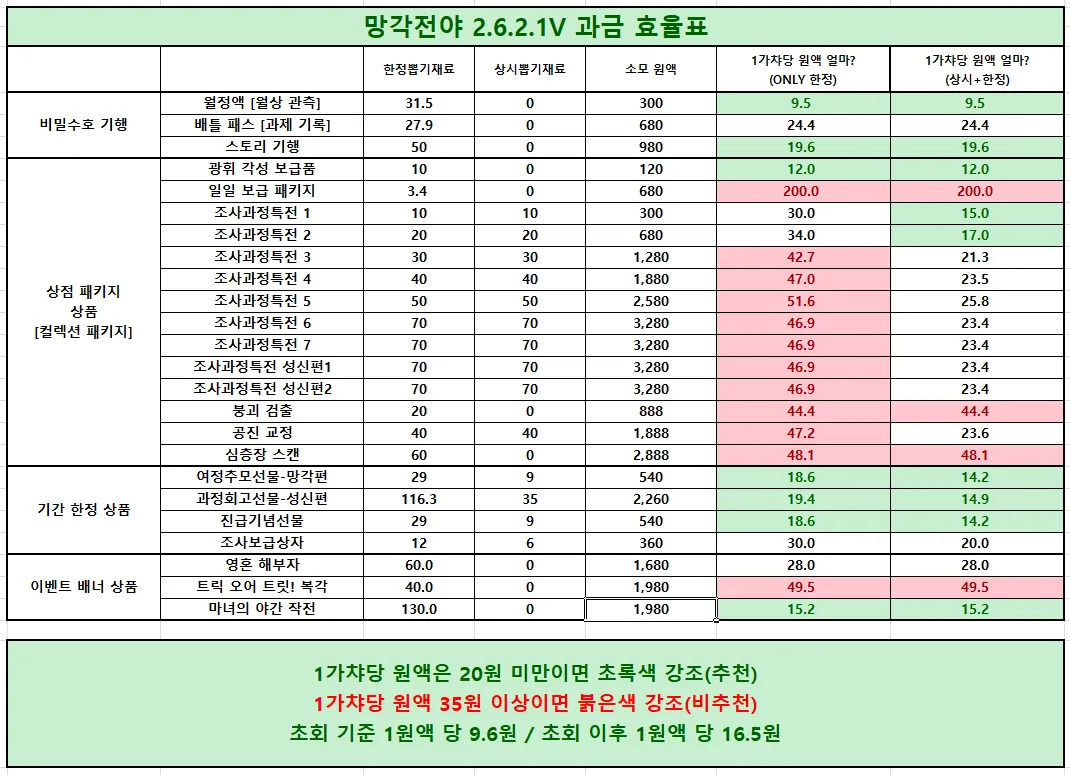
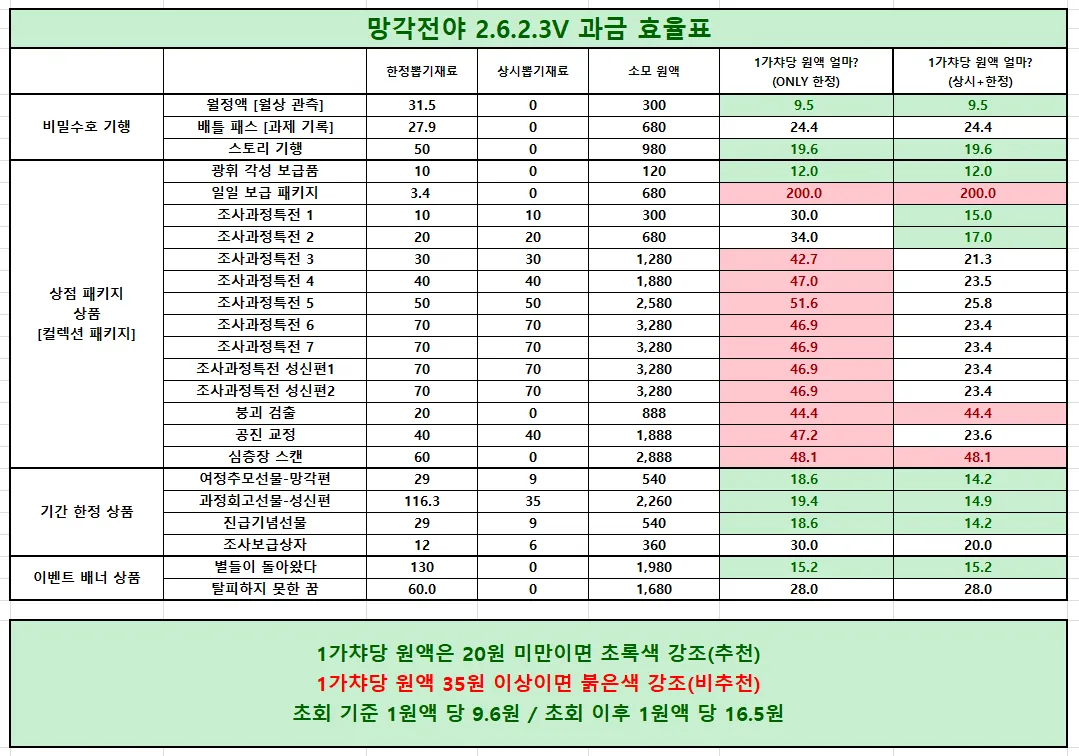
Update payment efficiency chart

Changed region(s): [[0.0, 0.0, 1.0, 1.0]]

diff --git a/payment_efficiency.html b/payment_efficiency.html
@@ -29,9 +29,9 @@
         </header>
 
         <div class="payment-image-viewer">
-            <img src="images/Payment_Efficiency.webp?v=20260923"
-                 width="1073"
-                 height="728"
+            <img src="images/Payment_Efficiency.webp?v=20261123"
+                 width="1079"
+                 height="756"
                  alt="망각전야 과금 효율표">
         </div>
         <p class="payment-image-credit">
